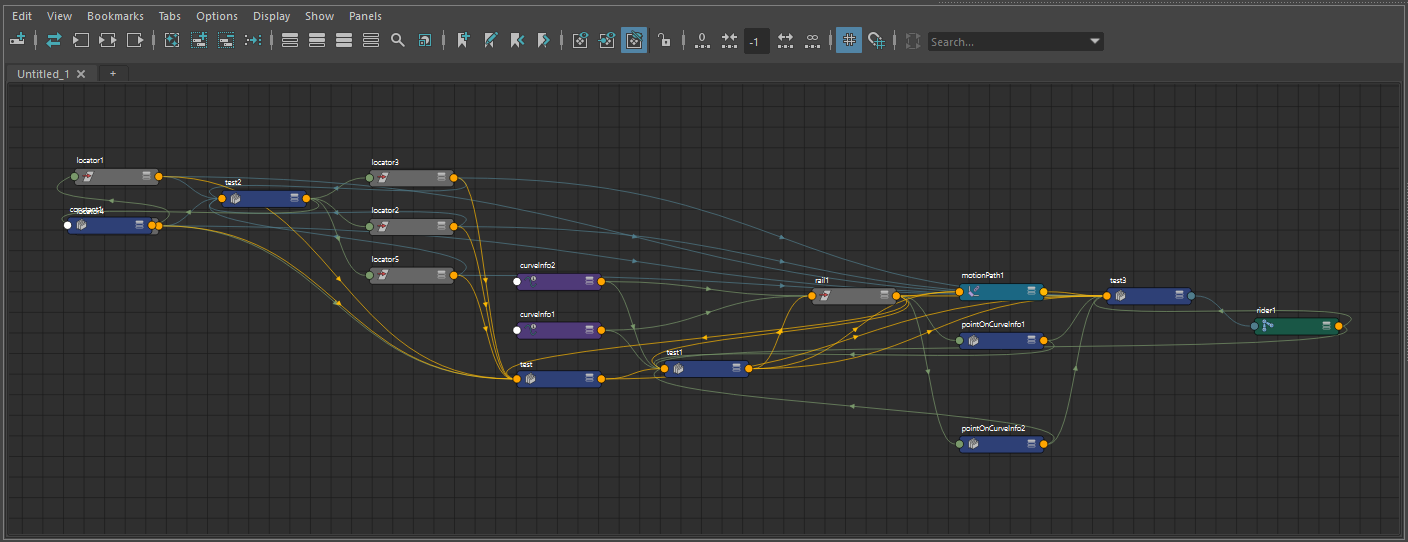
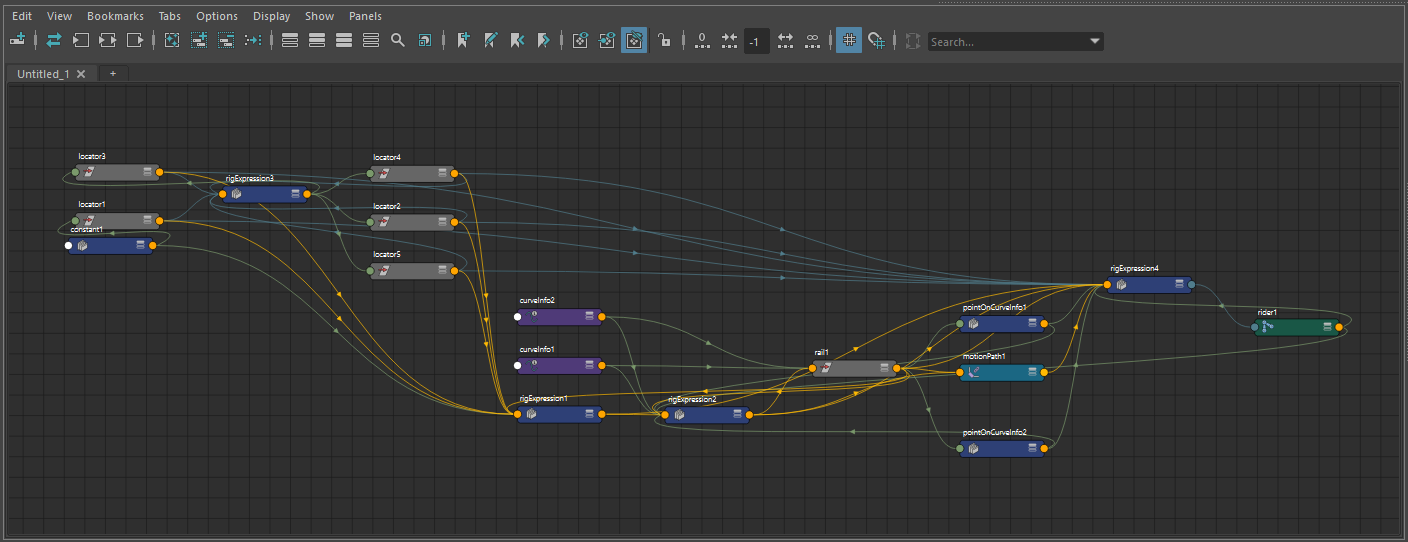
rig.fuse(): a block with no name makes rigExpression1, not fused1
A nameless block's node, and every node the fuse option makes, was
fused1, fused2 ...: a second word for what the docs, the plug-in and
Maya all call a rigExpression node, and a leftover of the name_fused1
scheme that ended when a block's node took the block's name. It takes
the node type's name now, as Maya names a node given none:
rigExpression1, rigExpression2 ... A named block is unchanged (arm,
arm1 ...).

In the Node Editor the name is all there is to read, and where rig.mll
is not found the node's type is "unknown": the name still says what it
was.

A script that names fused1 stops finding it. Saved scenes keep their
names; rig.unfuse() finds nodes by type.

The README's second rig.fuse() picture is the same one-rider rail with
its nodes named that way.

diff --git a/_tests/test_rig/test_fuse.py b/_tests/test_rig/test_fuse.py
@@ -172,7 +172,7 @@ class TestNodes(_Case):
                 self.out.tz << self.a.tz * 2 + 1
         with rig.fuse():
             self.out.sx << self.a.sx * 2 + 1
-        self.assertEqual(sorted(self.fused_nodes()), ["calc", "calc2", "fused1", "inner"])
+        self.assertEqual(sorted(self.fused_nodes()), ["calc", "calc2", "inner", "rigExpression1"])
         with mock.patch.object(_fuse, "MAX_INSTRUCTIONS", 1):    # a node a value: two nodes
             with rig.fuse("arm"):
                 self.out.rx << self.a.tx * 3 + 2
@@ -432,8 +432,8 @@ class TestNodes(_Case):
             u = self.a.tx * 2
             self.out.tx << u * u + 1
             far.t << self.a.t * u
-        self.assertEqual(self.fused_nodes(), ["fused1"])
-        self.assertEqual(cmds.getAttr("fused1.notes"), "\n".join([   # Markdown
+        self.assertEqual(self.fused_nodes(), ["rigExpression1"])
+        self.assertEqual(cmds.getAttr("rigExpression1.notes"), "\n".join([   # Markdown
             "# rig.fuse",
             "",
             "One `rigExpression` node computes these expressions.",
@@ -1562,7 +1562,7 @@ class TestUnfuse(_MatrixCase):
         self.assertEqual(self.fused_nodes(), [])
         cmds.undo()
         self.assertEqual(set(cmds.ls()), nodes)
-        self.assertEqual(self.fused_nodes(), ["fused1"])
+        self.assertEqual(self.fused_nodes(), ["rigExpression1"])
         np.testing.assert_allclose(cmds.getAttr("out.t")[0], expected)
         cmds.redo()
         self.assertEqual(self.fused_nodes(), [])
@@ -1687,11 +1687,11 @@ class TestUnfuse(_MatrixCase):
         with rig.fuse():
             self.out.tx << self.a.tx * 2
         with self.assertRaisesRegex(TypeError, "is a transform, not a rigExpression"):
-            rig.unfuse("fused1", "a")
+            rig.unfuse("rigExpression1", "a")
         with self.assertRaisesRegex(RuntimeError, "inside rig.fuse"):
             with rig.fuse():
                 rig.unfuse()
-        self.assertEqual(self.fused_nodes(), ["fused1"])
+        self.assertEqual(self.fused_nodes(), ["rigExpression1"])
         self.assertEqual(cmds.getAttr("out.tx"), 3.0)
 
     def test_describe_reads_the_program(self):
@@ -1700,7 +1700,7 @@ class TestUnfuse(_MatrixCase):
         self.inputs()
         with rig.fuse():
             self.out.tx << (self.a.tx + self.b.ty) * 2
-        text = unfuse.describe("fused1")
+        text = unfuse.describe("rigExpression1")
         self.assertIn("- `scalarIn[0] <- a.translateX`", text)
         self.assertIn("- `scalarOut[0] = ((a.translateX + b.translateY) * 2)`", text)
 
@@ -2410,7 +2410,7 @@ class TestHandle(_Case):
         self.assertEqual(io.name, "calc")             # the name the block was given
         with rig.fuse() as unnamed:
             self.out.sx << self.a.sx * 2 + 1
-        self.assertEqual(str(unnamed), "fused1")
+        self.assertEqual(str(unnamed), "rigExpression1")
 
     def test_no_node_before_the_first_connection(self):
         with rig.fuse("calc") as io:

diff --git a/_internal/fuse.py b/_internal/fuse.py
@@ -3116,8 +3116,9 @@ def _place(pending: list, into=None, dests=None, refuses=None) -> None:
 
 
 def _node_name() -> str:
-    # the innermost named block's name: Maya numbers it when a node has it (``arm1`` ...)
-    return next((n for n in reversed(FUSE.names) if n), None) or "fused1"
+    # the innermost named block's name: Maya numbers it when a node has it (``arm1`` ...);
+    # no name: the node type's, as Maya names a node given none (``rigExpression1`` ...)
+    return next((n for n in reversed(FUSE.names) if n), None) or NODE_TYPE + "1"
 
 
 def _commit(record: _Record, c: _Compiled, own: bool = True) -> None:
@@ -3790,8 +3791,8 @@ class fuse:
     """``with rig.fuse():`` -- fuse rig's scalar and vector math in the block into
     ``rigExpression`` nodes (see `rig._internal.fuse`). ``rig.fuse("arm")`` names its node
     ``arm`` (``arm1`` ... when a node has the name, or for the block's next node; no name:
-    ``fused1`` ...). The block is one undo step. Without the rig plug-in (rig.mll), the
-    block builds rig's nodes, with one warning per session. Inside it,
+    ``rigExpression1`` ...). The block is one undo step. Without the rig plug-in (rig.mll),
+    the block builds rig's nodes, with one warning per session. Inside it,
     ``rig.set_options(fuse=False)`` turns fusing off for the rest of the block (a block
     opened after it fuses); code a ``rig.run`` / ``rig.exec`` runs fuses as the block does.
 

diff --git a/CHEATSHEET.md b/CHEATSHEET.md
@@ -4728,10 +4728,10 @@ A fused value is built when it is used, not when it is written, so:
 * The block is one undo step. `rig.fuse("arm")` names its node `arm`:
   `arm1`, `arm2` ... when a node has the name (above, the block's node
   is `rider1`: the transform is `rider`), and for the block's next
-  nodes. A block with no name makes `fused1`, `fused2` ... Name a block
-  unlike the nodes built in it: Maya numbers both in one series (a block
-  `rider` in a loop that makes the joints `rider1`, `rider2` ... takes
-  some of their numbers).
+  nodes. A block with no name makes `rigExpression1`, `rigExpression2`
+  ... Name a block unlike the nodes built in it: Maya numbers both in one
+  series (a block `rider` in a loop that makes the joints `rider1`,
+  `rider2` ... takes some of their numbers).
 * `with rig.fuse("arm") as io:` gives the block, which stands in for its
   node once it made one: `str(io)` is the node's name, so
   `cmds.select(io)` selects it; `io.notes`, `io.vectorOut[0]`,
